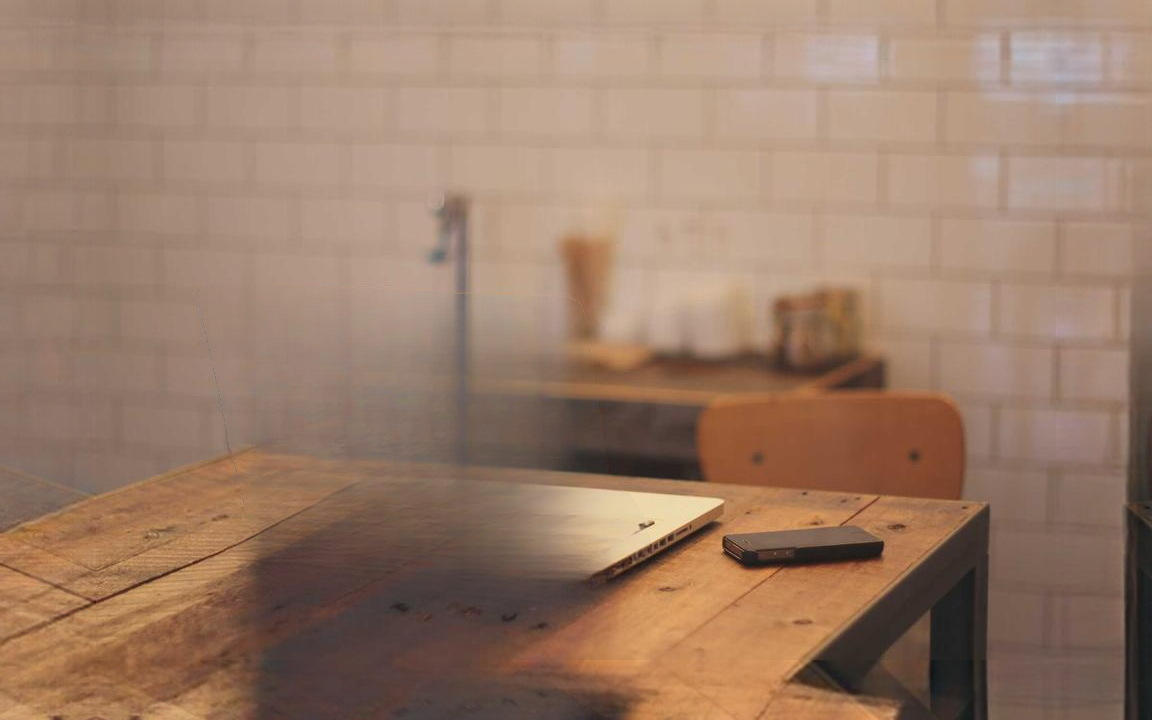
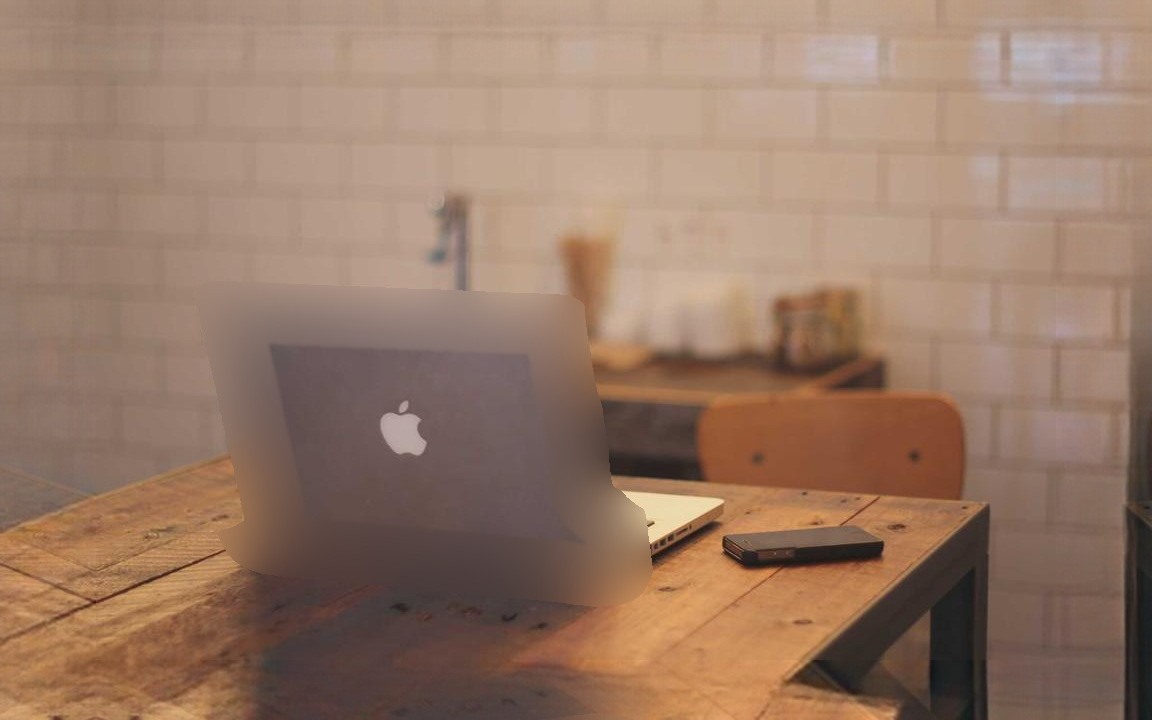
露出带改调和插值：补出来的背景终于不再有白斑/假轮廓
用户反馈"换图测试还是老毛病"。逐条追到根上，全部是"洞的形状/源/边界"
这三个环节用错了，不是参数问题。

tools/make_cards.py
- 洞从"整块主体"改成"轮廓内侧 band 宽的一圈"——只有这一圈会露出来，
  整块补既没用又把洞撑到跨材质（砖墙+桌面），必然补成雾
- 填充换成调和插值（迭代扩散，边界条件 = 洞外原图）：只受最近那圈
  约束，远处的过曝墙掺不进来。归一化高斯会把左上角亮墙算进去，补出
  一块白板；push_pull 会一路降到 6px 拿整幅图均值，补出灰白雾 ——
  三条路都实测过，只有调和插值可用
- src 收到 ~erase（整个主体外）：之前只排掉轮廓外 5px，洞内侧边界落在
  主体深处，插值变成"墙↔机身"的过渡，补出一根亮竖条
- 抹除范围比语义遮罩外扩 3px：u2netp 的边界比真实轮廓内缩 2~3px，那圈
  暗边留在背景板上就是一道虚线斜边
- 替换边界羽化 ~2px：硬切 + 像素级锯齿 = 放大可见的虚线
- 不再用残差早停（洞中心前几轮本来就不动，会误判收敛）
- 语义守卫加"宽度占比 > 60% / 贴边 ≥2 条"：大桥那张 bbox 81%×29%，
  面积只有 19% 却是一条横带，之前被当物体走了 2 层，左移时露出糊块

index.html
- 顶部横幅指到 cards.html。之前首页完全没有入口，打开默认页看到的
  还是旧的深度网格

实测（三张，各三眼位）
- 桌面笔电 2 层：左/右 7.5cm，剪影两侧干净，无虚线、无白块
- 船头鸬鹚 1 层、布鲁克林大桥 1 层：整体平移，零相对位移 = 零生成

diff --git a/index.html b/index.html
@@ -166,6 +166,13 @@
 </script>
 </head>
 <body>
+<div id="archBanner" style="position:fixed;left:0;right:0;top:0;z-index:99;display:flex;gap:10px;align-items:center;flex-wrap:wrap;padding:9px 14px;background:#2a1d0c;border-bottom:1px solid #5c4519;font:13px/1.5 -apple-system,'PingFang SC',sans-serif;color:#f0d9a8">
+  <b style="color:#ffcf6b">这一页是旧的「深度网格」方案</b>
+  <span style="opacity:.85">逐像素深度搬进几何，轮廓必然有锯齿和撕裂 —— 参数调不完，已换成卡片栈。</span>
+  <a href="cards.html" style="color:#7fd7ff;text-decoration:none;border-bottom:1px dashed currentColor">→ 打开新的「卡片栈」方案</a>
+  <button onclick="this.parentNode.remove()" style="margin-left:auto;background:none;border:1px solid #5c4519;color:#f0d9a8;border-radius:6px;padding:2px 9px;cursor:pointer">知道了</button>
+</div>
+<div style="height:56px"></div>
 <div id="app"></div>
 
 <div id="fileWarn">

diff --git a/tools/make_cards.py b/tools/make_cards.py
@@ -158,6 +158,60 @@ def ring_fill(lama, img, ring, win=512, stride=256, feather=40):
     return np.clip(out, 0, 1)
 
 
+# ── 色调：让补出来的内容采纳"洞外真实像素"的局部色温 ─────────────────
+def tone_match(fill, rgb, hole, ring_px=22, sigma=11.0):
+    """
+    LaMa 补露出带，结构对、**色温却常跟周围差一截** —— 一面暖米色的砖墙，
+    它补出一块偏冷偏灰的平滑色。眼一移，那条补出来的带子就是"贴上去的一块"，
+    边界上还有一条看得见的线。
+
+    正确参考只能来自**洞外的真实像素**（洞内是我们要造的东西，不能当参照）。
+    做法是归一化卷积求"周围真实像素的局部平均色"，只把差值加上去：
+
+        low_out = Gaussian(rgb · m) / Gaussian(m)      m = 洞外
+        out     = fill + (low_out - Gaussian(fill))
+
+    只补低频，模型给的纹理原封不动 —— 边界两侧色温一致，线自然消失。
+    """
+    m = (~hole).astype(np.float32)
+    num = np.stack([ndi.gaussian_filter(rgb[..., c] * m, sigma) for c in range(3)], -1)
+    den = np.maximum(ndi.gaussian_filter(m, sigma), 1e-4)[..., None]
+    low_out = num / den
+    low_fill = np.stack([ndi.gaussian_filter(fill[..., c], sigma) for c in range(3)], -1)
+    return np.clip(fill + (low_out - low_fill), 0, 1)
+
+
+# ── 露出带：调和插值（迭代扩散），边界条件 = 洞外真实像素 ─────────────
+def harmonic_fill(rgb, src, band, iters=14):
+    """
+    洞里每一轮做一次高斯，再把洞外强制恢复成原图：
+
+        out ← Gaussian(out)      只在洞内生效
+        out ← rgb                洞外永远是真实像素
+
+    收敛后洞内是"以洞外像素为边界条件的最小曲率曲面"，即调和插值。
+    相比各种"平均色"的填法，它多出两个关键性质：
+
+    · **只受最近那圈边界约束**，远处的过曝墙 / 暗桌掺不进来（归一化高斯
+      sigma=15 时，笔电左上角那片很亮的墙会被算进洞里，补出来比真实墙
+      亮一大截 —— 左移时就是一块白板）；
+    · **边界上严格等于原值**，不会有接缝、也不会有虚化描边。
+
+    两个参数是绑死的：sigma 取 band/4，迭代 14 轮 → 等效扩散半径
+    ≈ sigma·√14 ≈ 0.93·band，刚好覆盖整个洞。
+
+    **不要用"残差不变就早停"**：洞中心在头几轮本来就完全不动（扩散还没
+    走到），max|Δ| 一直很小，会立刻误判收敛，然后洞里还是原图的笔电轮廓
+    —— 背景板上那条虚线斜边就是这么来的。
+    """
+    sigma = max(4.0, band / 4.0)
+    out = rgb.copy()
+    for _ in range(iters):
+        sm = np.stack([ndi.gaussian_filter(out[..., c], sigma) for c in range(3)], -1)
+        out = np.where(src[..., None], rgb, sm)
+    return np.clip(out, 0, 1)
+
+
 def main():
     if len(sys.argv) < 4:
         print(__doc__)
@@ -169,6 +223,9 @@ def main():
     mirror_hf = argval('--mirror-hf', 0.5)
     max_side = argval('--max-side', 1600, int)
     use_lama = '--no-lama' not in sys.argv
+    ring_mode = 'smooth'
+    if '--ring' in sys.argv:
+        ring_mode = sys.argv[sys.argv.index('--ring') + 1]
     plate_path = None
     if '--plate' in sys.argv:
         plate_path = sys.argv[sys.argv.index('--plate') + 1]
@@ -206,9 +263,18 @@ def main():
             # 水面这种横贯画面的东西整块当主体，用它抠图等于把照片撕掉半张。
             ys, xs = np.nonzero(obj)
             bw, bh = xs.max() - xs.min() + 1, ys.max() - ys.min() + 1
+            # 两条最硬的判据，都是"形状"层面的：
+            # · **贴边**：独立物体（笔电、瓶子、人）四周一定留空隙；桥、
+            #   城墙、海平线这类横贯画面的东西会一直顶到画面边上。
+            # · **宽度占比**：实测大桥那张 bbox 是 81%×29% —— 面积只有 19%，
+            #   又宽又扁，就是一条横带，不是物体。阈值取 0.60：真的独立物体
+            #   很少占掉六成画面宽度，而误判成单层的代价（少一点视差）远小于
+            #   误判成双层的代价（移动时露出补出来的糊块）。
+            touch = (obj[0].mean() > 0.10) + (obj[-1].mean() > 0.10) \
+                + (obj[:, 0].mean() > 0.10) + (obj[:, -1].mean() > 0.10)
             if (obj.mean() > 0.30 or (bw * bh) / float(W * H) > 0.55
-                    or bw > W * 0.85 or bh > H * 0.9):
-                print('语义守卫触发：没有可拆的独立主体')
+                    or bw > W * 0.60 or bh > H * 0.85 or touch >= 2):
+                print(f'语义守卫触发：没有可拆的独立主体（贴边 {touch} 条）')
                 obj = np.zeros((H, W), bool)
                 guard_hit = True
 
@@ -234,6 +300,13 @@ def main():
         if not auto_single and not forced_single:
             print('!! 找不到主体，退化成单张卡片')
         subject = np.zeros((H, W), bool)
+    elif subject.any():
+        # 语义遮罩会在物体**内部**挖洞：u2netp 对一块深色反光的屏幕经常
+        # 只给到 0.3~0.4 的置信度，于是笔电屏幕上破了一个大洞。洞本身不大，
+        # 后果却很大 —— 卡片在那里 alpha < 1，背景板（已经抹掉笔电、补成墙色）
+        # 就从屏幕里透上来，看起来是"笔电上糊了一团白雾"。
+        # 填洞是安全操作：主体是连通的实体，内部不该有洞。
+        subject = ndi.binary_fill_holes(subject)
 
     alpha = B.soft_alpha(subject, lum) if subject.any() else np.zeros((H, W), np.float32)
     if subject.any():
@@ -279,14 +352,89 @@ def main():
         print(f'背景板：{plate_path}')
     else:
         if subject.any():
-            hole_full = ndi.binary_dilation(subject, B.disk(7))
-            filled = ring_fill(lama, rgb, hole_full) if lama is not None else B.push_pull(bg, ~hole_full)
-            # 替换范围必须**和卡片的 alpha 对齐**（paint = alpha>0.05），不能用
-            # 主体遮罩本身：遮罩边缘那 2px 里 alpha 可能是 0.02，一旦那里被抹掉，
-            # 中心位就会从"卡片几乎透明"的地方漏出补出来的内容（实测船景有 832 个
-            # 像素的误差超过 8/255）。卡片不画的像素，背景板就一定保留原样。
-            paint = alpha > 0.12   # 与 decontaminate 的 lo 一致，见那里
-            bg = np.where(paint[..., None], filled, rgb)
+            # 只修"轮廓内侧 band 宽的一圈"。
+            #
+            # 这一版之前是把整块主体（469×339，占画面 15%）当洞送进 LaMa，
+            # 结果背景板中间糊出一大片灰白的雾，还带一条斜接缝 —— 因为那个洞
+            # 同时跨了砖墙和桌面两种材质，模型没有"这里是一张桌子"的概念，
+            # 只能填最省事的均值。眼一移，那片雾就当作"白斑"露出来。
+            #
+            # 而按位移预算算过：主体相对背景最多错开 reveal 像素，所以**只有
+            # 紧贴轮廓内侧、宽度 = reveal 的那一圈**会被露出来。更深处永远被
+            # 卡片盖着，补它不但没用，还把洞撑大、把补全质量拉垮。
+            # 抹除范围要比语义遮罩**外扩 3px**。
+            #
+            # u2netp 在阈值 0.5 处切出来的边界，通常比物体真实轮廓**内缩**
+            # 2~3px —— 而物体最深处的那条暗边、反光边恰恰就在这 2~3px 里。
+            # 只按遮罩抹，轮廓会被完整留在背景板上：眼一移，那道虚线状的
+            # 斜边就从背景里浮出来（放大看是断续的点，因为遮罩边界是像素锯齿）。
+            #
+            # alpha 仍然用原遮罩，所以卡片剪影一点都不变。
+            erase = ndi.binary_dilation(subject, B.disk(3))
+            sp = band + 6
+            erase_pad = np.pad(erase, sp, constant_values=True)
+            dist_in = ndi.distance_transform_edt(erase_pad)[sp:-sp, sp:-sp]
+            ring = erase & (dist_in < band)
+
+            # 替换边界必须**离开轮廓** 5px。
+            #
+            # 严格的替换边界就是遮罩边界，而遮罩是像素级的 —— 边界本身带
+            # 1px 锯齿。就算两测色差只有 5%，那条锯齿在放大后也是一条断续的
+            # 虚线（就是"边缘一圈毛"的最后一层来源）。把边界推到轮廓外 5px
+            # 的墙里，两测就都是墙色，锯齿无从显现。
+            #
+            # 代价：轮廓外 5px 的墙是补的，静止时那 5px 与原图差百分之几。
+            # 但卡片 alpha 在最外 2px 就掉到 0 了，decontaminate 又把 a>0.12
+            # 的那段反解回原值 —— 真正裸奔的只有 1~2px，肉眼不可见。
+            hole = ndi.binary_dilation(ring, B.disk(5))
+            if ring_mode == 'lama' and lama is not None:
+                # 洞的输入图里，**整个主体 + 它的边界**都要抹平。
+                #
+                # 这里有两层坑，叠在一起：
+                # 1. LaMa 是整图重建模型，在 mask 边界处倾向于**复制输入**
+                #    （它也被训练成洞外要还原）。所以只要输入里还留着轮廓，
+                #    补出来的背景板上轮廓就原封不动 —— 眼一移就是第二台笔电。
+                # 2. 而 u2netp 的遮罩边界本身有 1~2px 锯齿，正好压在笔电最深的
+                #    那条轮廓线上。只抹 subject 内部的话，这条断续的深色点线会
+                #    留在 mask 外面，被模型当成"该延续的边缘"复制进去。
+                #
+                # 所以抹平范围要比 subject **外扩 3px**，让轮廓整条消失。
+                grow = ndi.binary_dilation(subject, B.disk(3))
+                fill = B.push_pull(rgb, ~grow)
+                pre = np.where(grow[..., None], fill, rgb)
+                if '--debug' in sys.argv:
+                    Image.fromarray((np.clip(pre, 0, 1) * 255).astype(np.uint8)).save(
+                        os.path.join(outdir, '_dbg_pre.png'))
+                    Image.fromarray((ring * 255).astype(np.uint8)).save(
+                        os.path.join(outdir, '_dbg_ring.png'))
+                bg = np.where(hole[..., None], tone_match(ring_fill(lama, pre, hole), rgb, hole), rgb)
+            else:
+                # 露出带的填充：最近的**真实背景**像素 + 局部模糊。
+                #
+                # 三个都试过，只有这条能用：
+                # · LaMa 整块：洞跨砖墙/桌面两种材质，补出一片雾，还沿着轮廓
+                #   糊出一条污浊的斜带；
+                # · LaMa 只修一圈：它在 mask 边界复制输入，笔电轮廓原样留下，
+                #   眼一移就是第二台笔电；
+                # · push_pull：多尺度金字塔一路降到 6px，洞中心拿到的其实是
+                #   **整幅图的平均色**——一块灰白的雾，正是"白斑"。
+                #
+                # 距离场取最近背景像素，颜色一定来自**最近的**那片材质；
+                # 再模糊 9px 抹掉 Voronoi 分界。57px 宽的带里，这就是
+                # "没有这台笔电时，那里应该是墙/桌面"最接近的估计。
+                # src 一定要是**整个主体之外**，不能只排掉轮廓外 5px：
+                # 洞（dilate(ring,5)）的内侧边界落在主体深处，而那里原本
+                # 还在 src 里 —— 调和插值就变成"墙 ↔ 笔电机身"的过渡，
+                # 补出一根比周围亮的竖条（左移时最显眼的那块）。
+                # 主体内部一律不可信，只留真背景当边界条件。
+                src = ~erase
+                fill = harmonic_fill(rgb, src, band)
+                # 替换边界必须**羽化**。边界是像素级的，遮罩本身带 1px 锯齿，
+                # 就算两侧色差只有 3%，硬切在放大后也是一条断续的虚线
+                # （"边缘一圈毛"的最后一层）。这里羽化半径 ~2px，两侧都是墙，
+                # 过渡完全看不出来。
+                w = np.clip(ndi.gaussian_filter(hole.astype(np.float32), 1.6), 0, 1)
+                bg = rgb * (1 - w[..., None]) + fill * w[..., None]
         bg = np.clip(bg, 0, 1)
         bg = outpaint(lama, bg, pad_x, pad_y, mirror_hf)
 
